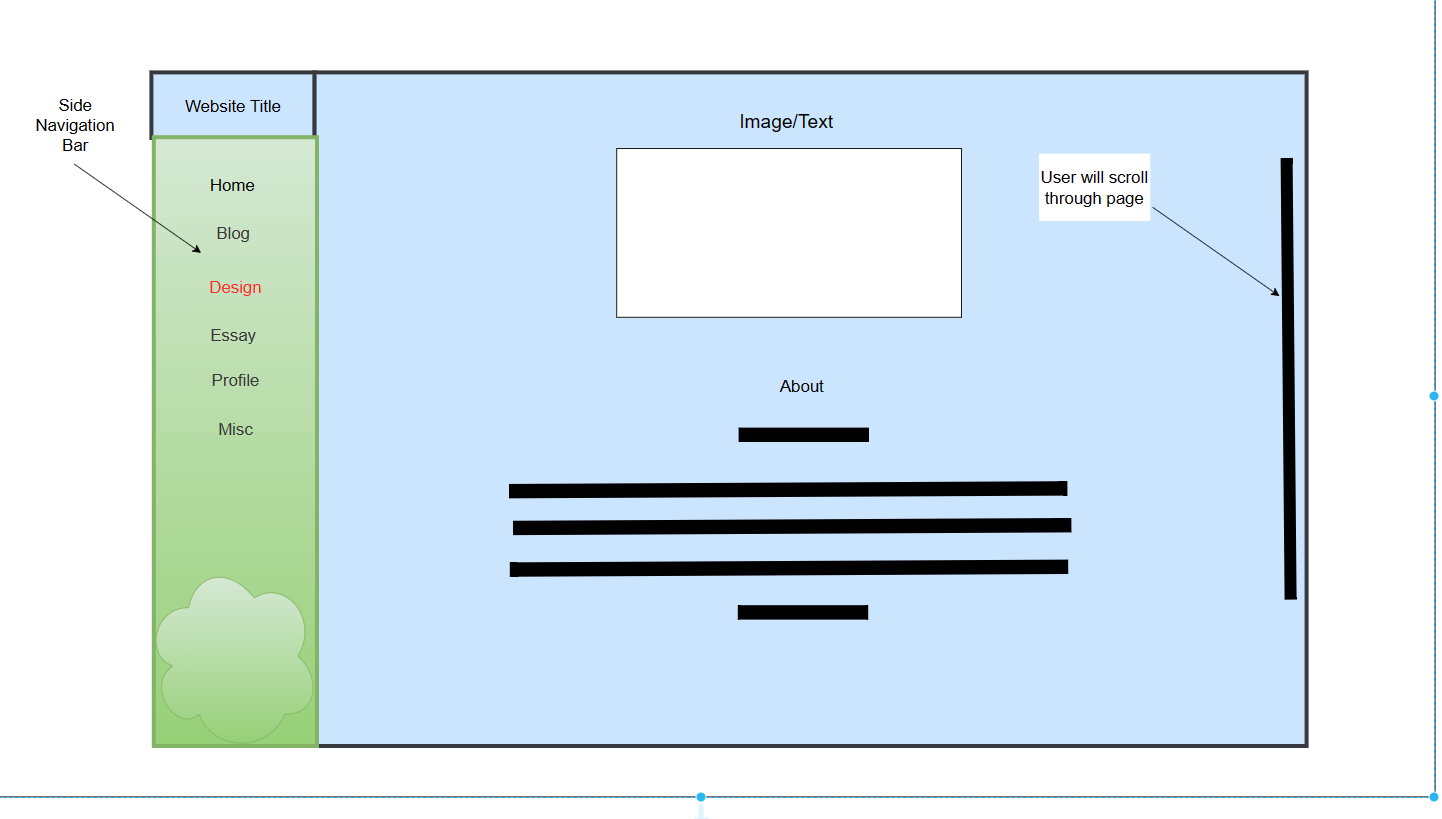
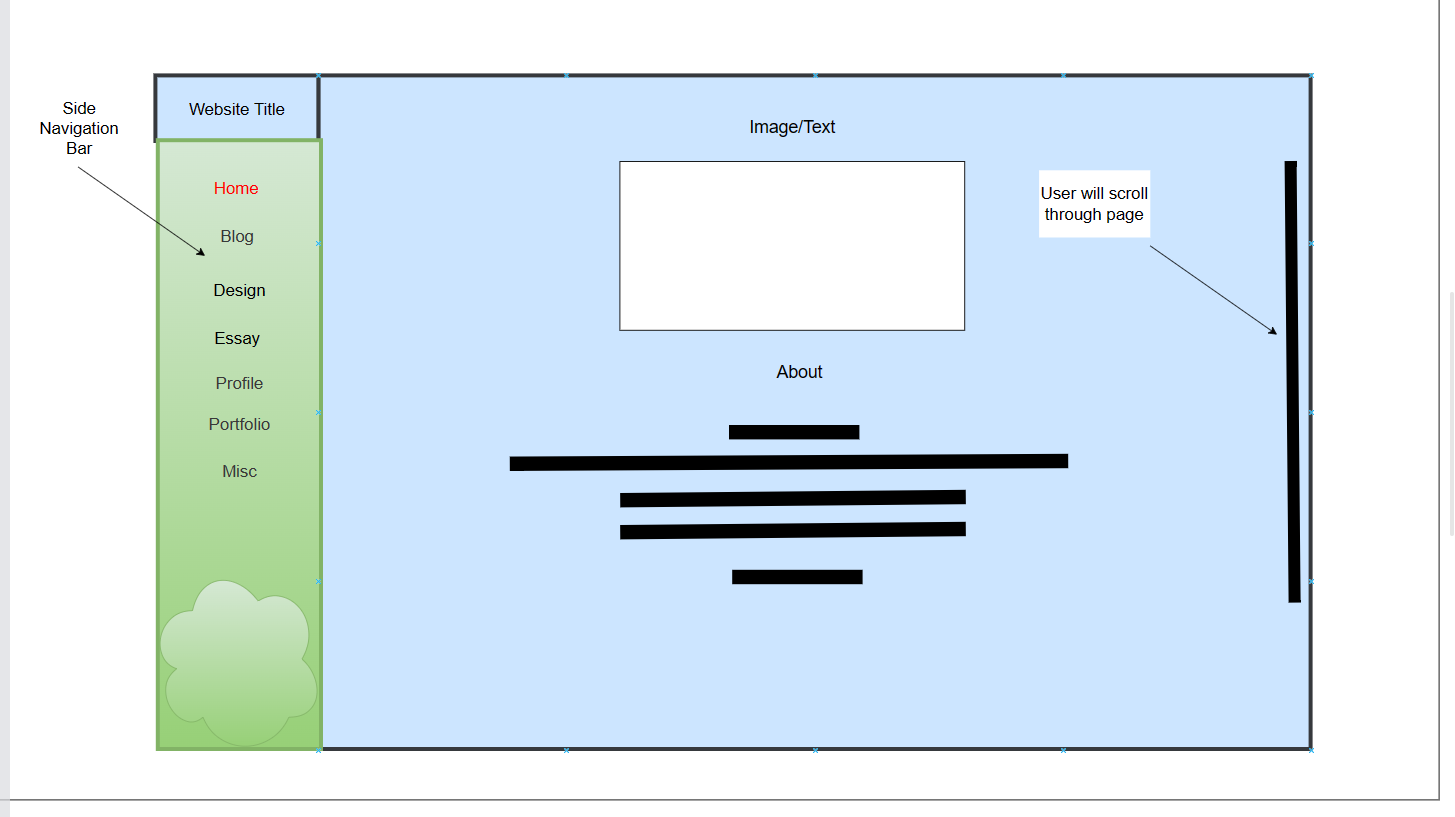
Website 2 Assignment Resubmission

diff --git a/Design/Design.html b/Design/Design.html
@@ -132,7 +132,9 @@
 
     <h2 style="text-align: center;">Homepage Wireframe</h2>
     <div style="text-align: center;"><img src="/WSOA3028_1595043/Design/DesignWireframe/HomePageWireframe.png" width="600" height="500" alt="Homepage image"></div>
-    <h2 style="text-align: center;">Blog Wireframe</h2>
+    <h2 style="text-align: center;">Blog Page Home Wireframe</h2>
+    <div style="text-align: center;"><img src="/WSOA3028_1595043/Design/DesignWireframe/BlogHomePageWireframe.png" width="600" height="500" alt="Blog image"></div>
+    <h2 style="text-align: center;">Blog Page Wireframe</h2>
     <div style="text-align: center;"><img src="/WSOA3028_1595043/Design/DesignWireframe/BlogPageWireframe.png" width="600" height="500" alt="Blog image"></div>
     <h2 style="text-align: center;">Design Wireframe</h2>
     <div style="text-align: center;"> <img src="/WSOA3028_1595043/Design/DesignWireframe/DesignPageWireframe.png" width="600" height="500" alt="Design 2 image"></div>
